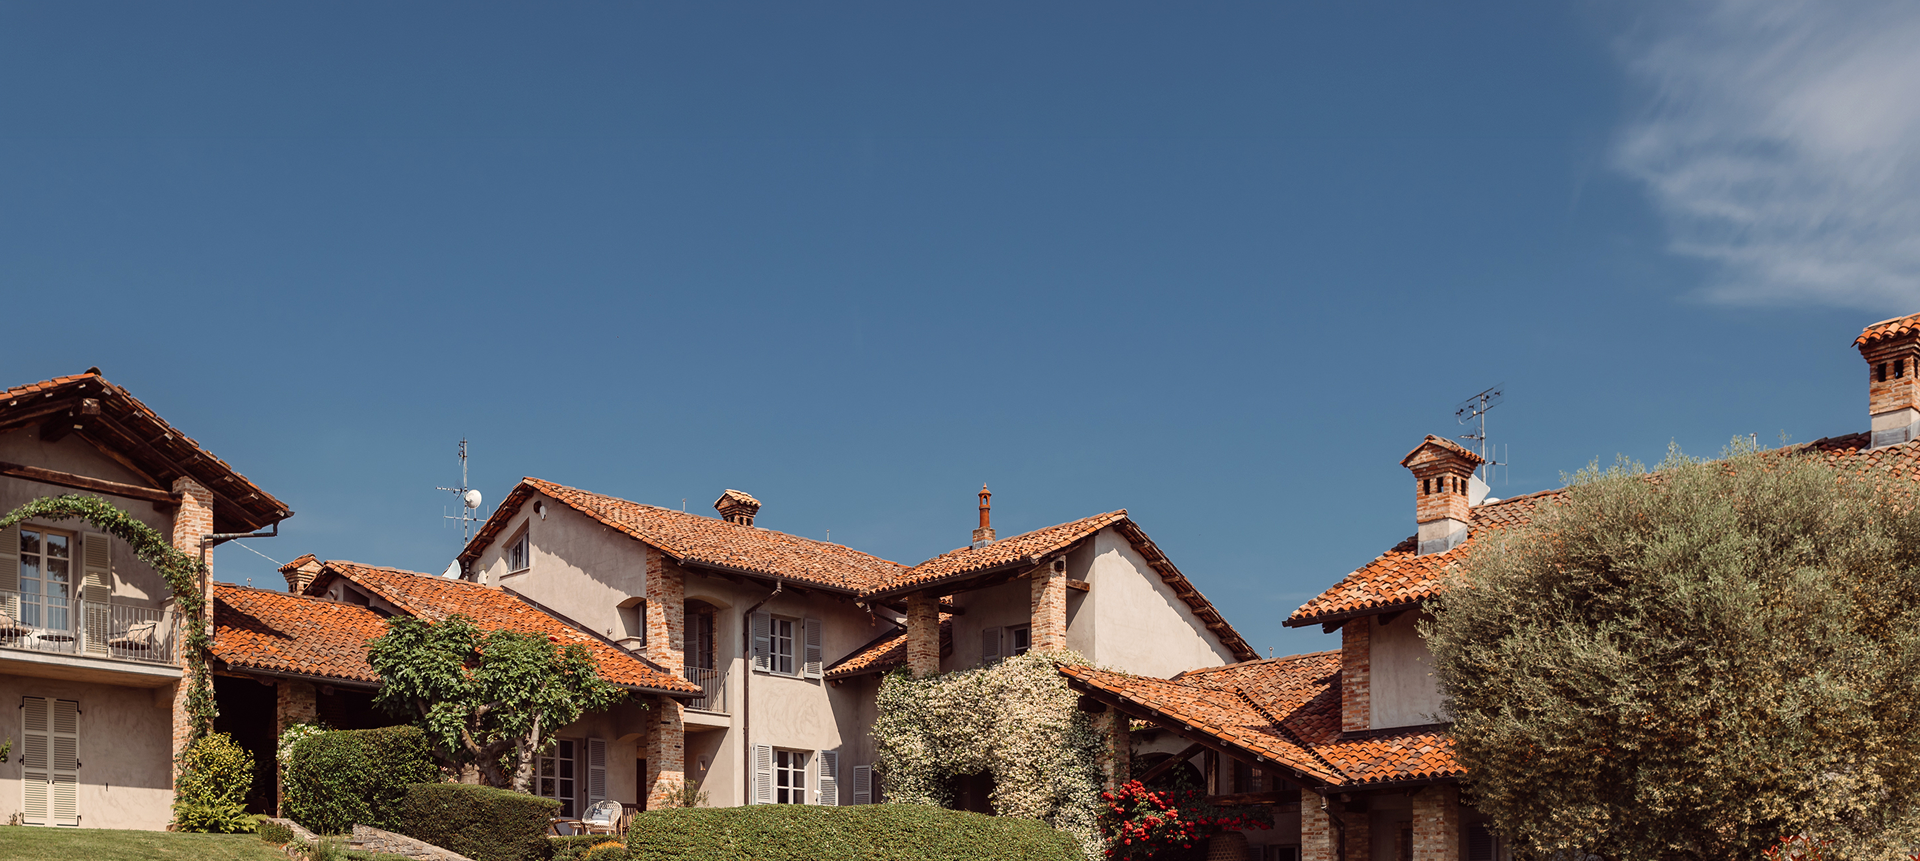
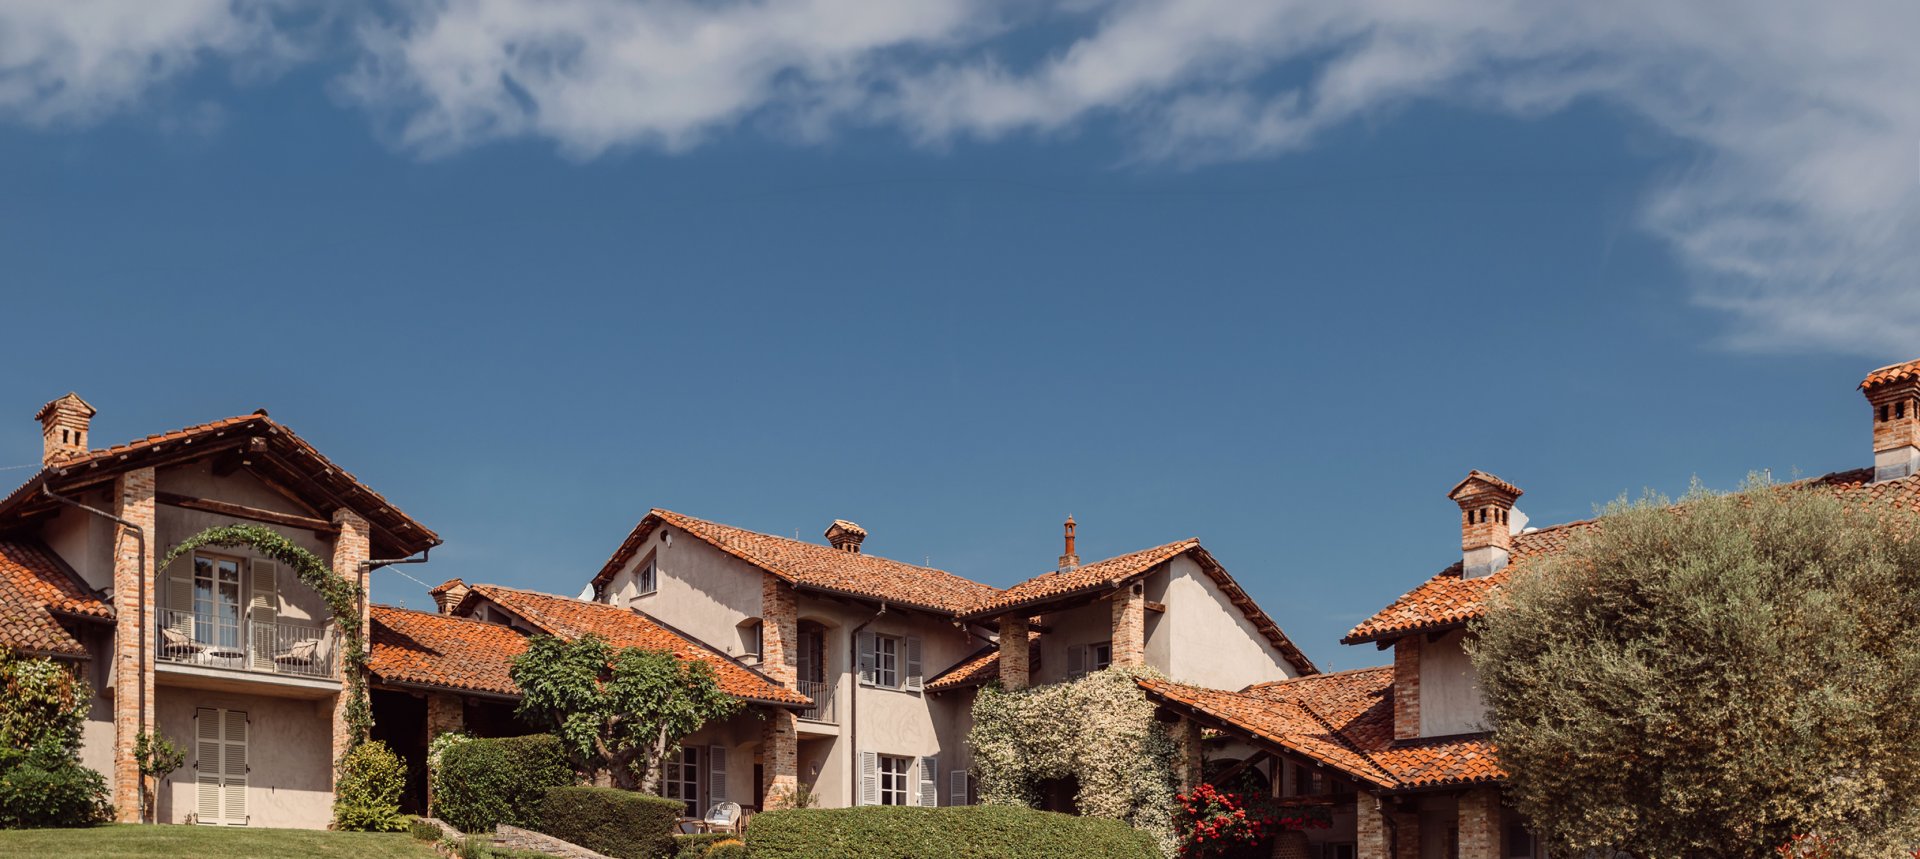
changed photo in StaysHero and added max-w for mobiles in card title ExperiencesPlanStay

diff --git a/src/sections/ExperiencesPageSections/ExperiencesPlanStay/EsperiencesPlanStay.tsx b/src/sections/ExperiencesPageSections/ExperiencesPlanStay/EsperiencesPlanStay.tsx
@@ -71,7 +71,7 @@ export function ExperiencesPlanStay() {
               }}
               className="flex w-full flex-col items-center">
               {/* Title */}
-              <h2 className="font-serif sm:max-w-[520px] md:max-w-[680px] lg:max-w-none text-[18px] leading-[20px] tracking-[0.02em] text-[#2C3654] md:text-[28px] md:leading-[30px] lg:text-[32px] lg:leading-[36px] 2xl:text-[38px] 2xl:leading-[44px]">
+              <h2 className="font-serif max-w-[295px] sm:max-w-[520px] md:max-w-[680px] lg:max-w-none text-[18px] leading-[20px] tracking-[0.02em] text-[#2C3654] md:text-[28px] md:leading-[30px] lg:text-[32px] lg:leading-[36px] 2xl:text-[38px] 2xl:leading-[44px]">
                 {t('experiencesPlanStay.titleLine1')}
                 <br className="hidden lg:block" />
                 {t('experiencesPlanStay.titleLine2')}

diff --git a/src/sections/StaysPageSections/StaysHero/StaysHero.tsx b/src/sections/StaysPageSections/StaysHero/StaysHero.tsx
@@ -20,7 +20,7 @@ export function StaysHero() {
 
       {/* CONTENT */}
       <div className="relative z-10 flex w-full justify-center px-6">
-        <div className="flex flex-col items-center text-center mb-60 lg:mb-80">
+        <div className="flex flex-col items-center text-center">
           <AnimatePresence mode="wait">
             <motion.div
               key={t('staysHero.title')}
